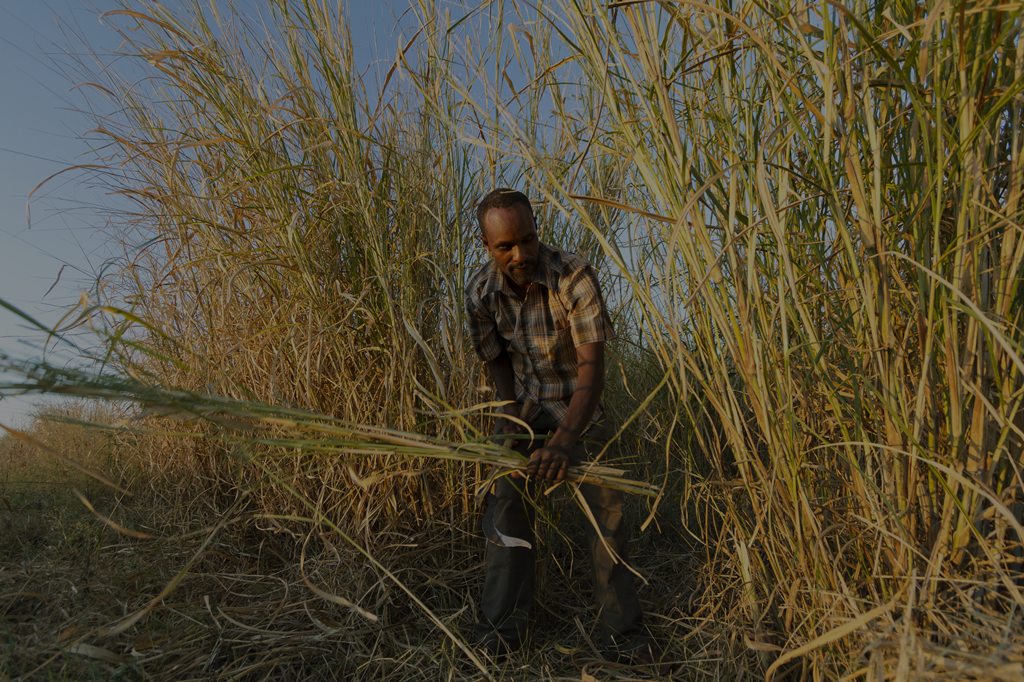
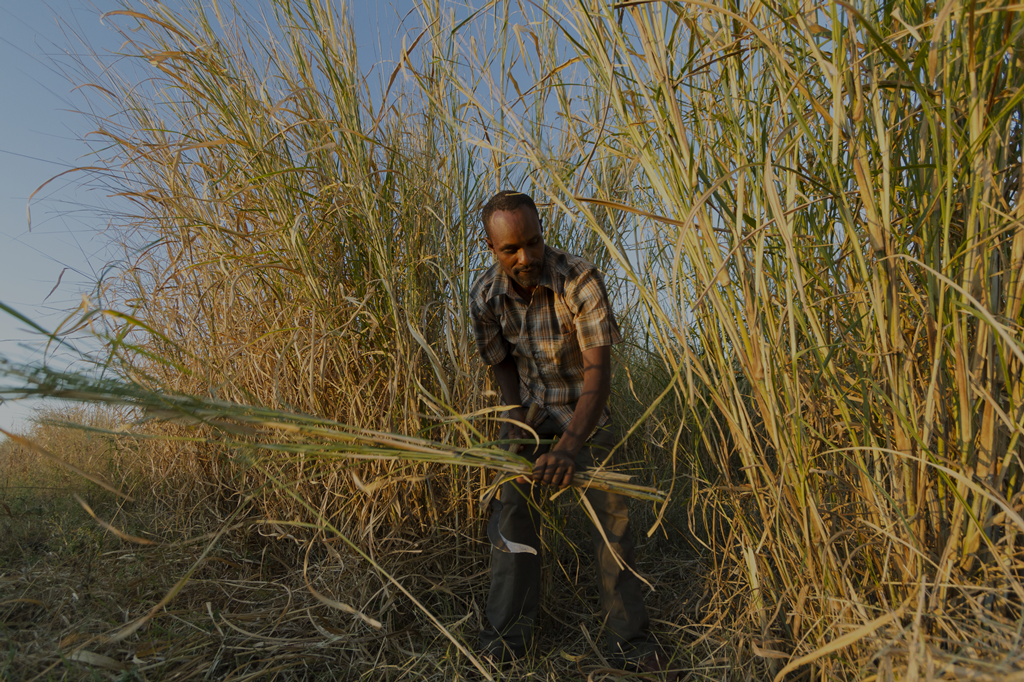
updated front page images #78

diff --git a/_includes/styles/main.css b/_includes/styles/main.css
@@ -960,20 +960,19 @@ ul.social li a:hover {
   padding: 100px 0;
   background: #ccc;
   border-bottom: 2px solid #fff;
-  background: url("../../img/sunset-desat.png") no-repeat;
   background-size: cover;
 }
-/* line 7, ../../source_assets/styles/_front.scss */
+/* line 6, ../../source_assets/styles/_front.scss */
 .hero h1 {
   color: #fff;
   margin-bottom: 10px;
 }
-/* line 11, ../../source_assets/styles/_front.scss */
+/* line 10, ../../source_assets/styles/_front.scss */
 .hero h2 {
   color: #fff;
   margin-bottom: 30px;
 }
-/* line 15, ../../source_assets/styles/_front.scss */
+/* line 14, ../../source_assets/styles/_front.scss */
 .hero p {
   color: #eee;
   text-align: center;
@@ -981,33 +980,39 @@ ul.social li a:hover {
   font-size: 0.8em;
 }
 
-/* line 23, ../../source_assets/styles/_front.scss */
+/* line 22, ../../source_assets/styles/_front.scss */
 .map,
 .intro {
   height: 100%;
 }
 
-/* line 27, ../../source_assets/styles/_front.scss */
+/* line 26, ../../source_assets/styles/_front.scss */
 .map-intro {
   margin-top: -640px;
   position: absolute;
 }
 
-/* line 32, ../../source_assets/styles/_front.scss */
+/* line 31, ../../source_assets/styles/_front.scss */
+.section-intro {
+  background: url("../../img/sunset-desat.png") center center;
+  background-size: cover;
+}
+
+/* line 35, ../../source_assets/styles/_front.scss */
 .section-data {
   background: url("../../img/sunset-desat.png") center center;
   background-size: cover;
 }
 
-/* line 36, ../../source_assets/styles/_front.scss */
+/* line 39, ../../source_assets/styles/_front.scss */
 .section-challenge {
-  background: url("../../img/women-desat.png") center center;
+  background: url("../../img/harvest-desat.png") center center;
   background-size: cover;
 }
 
-/* line 40, ../../source_assets/styles/_front.scss */
+/* line 43, ../../source_assets/styles/_front.scss */
 .section-blog {
-  background: url("../../img/harvest-desat.png") center center;
+  background: url("../../img/garden-desat.png") center center;
   background-size: cover;
 }
 

diff --git a/source_assets/styles/_front.scss b/source_assets/styles/_front.scss
@@ -2,7 +2,6 @@
   padding: 100px 0;
   background: #ccc;
   border-bottom: 2px solid #fff;
-  background: url("../../img/sunset-desat.png") no-repeat;
   background-size: cover;
   h1 {
     color: #fff;
@@ -29,16 +28,20 @@
   position: absolute;
 }
 
+.section-intro {
+  background: url("../../img/sunset-desat.png") center center;
+  background-size: cover;
+}
 .section-data {
   background: url("../../img/sunset-desat.png") center center;
   background-size: cover;
 }
 .section-challenge {
-  background: url("../../img/women-desat.png") center center;
+  background: url("../../img/harvest-desat.png") center center;
   background-size: cover;
 }
 .section-blog {
-  background: url("../../img/harvest-desat.png") center center;
+  background: url("../../img/garden-desat.png") center center;
   background-size: cover;
 }
 

diff --git a/index.html b/index.html
@@ -2,7 +2,7 @@
 layout: default
 ---
 
-<section class="hero">
+<section class="hero section-intro">
   <div class="row row-intro">
     <div class="medium-7 large-6 columns">
       <h1>We need a new solution for new realities</h1>
